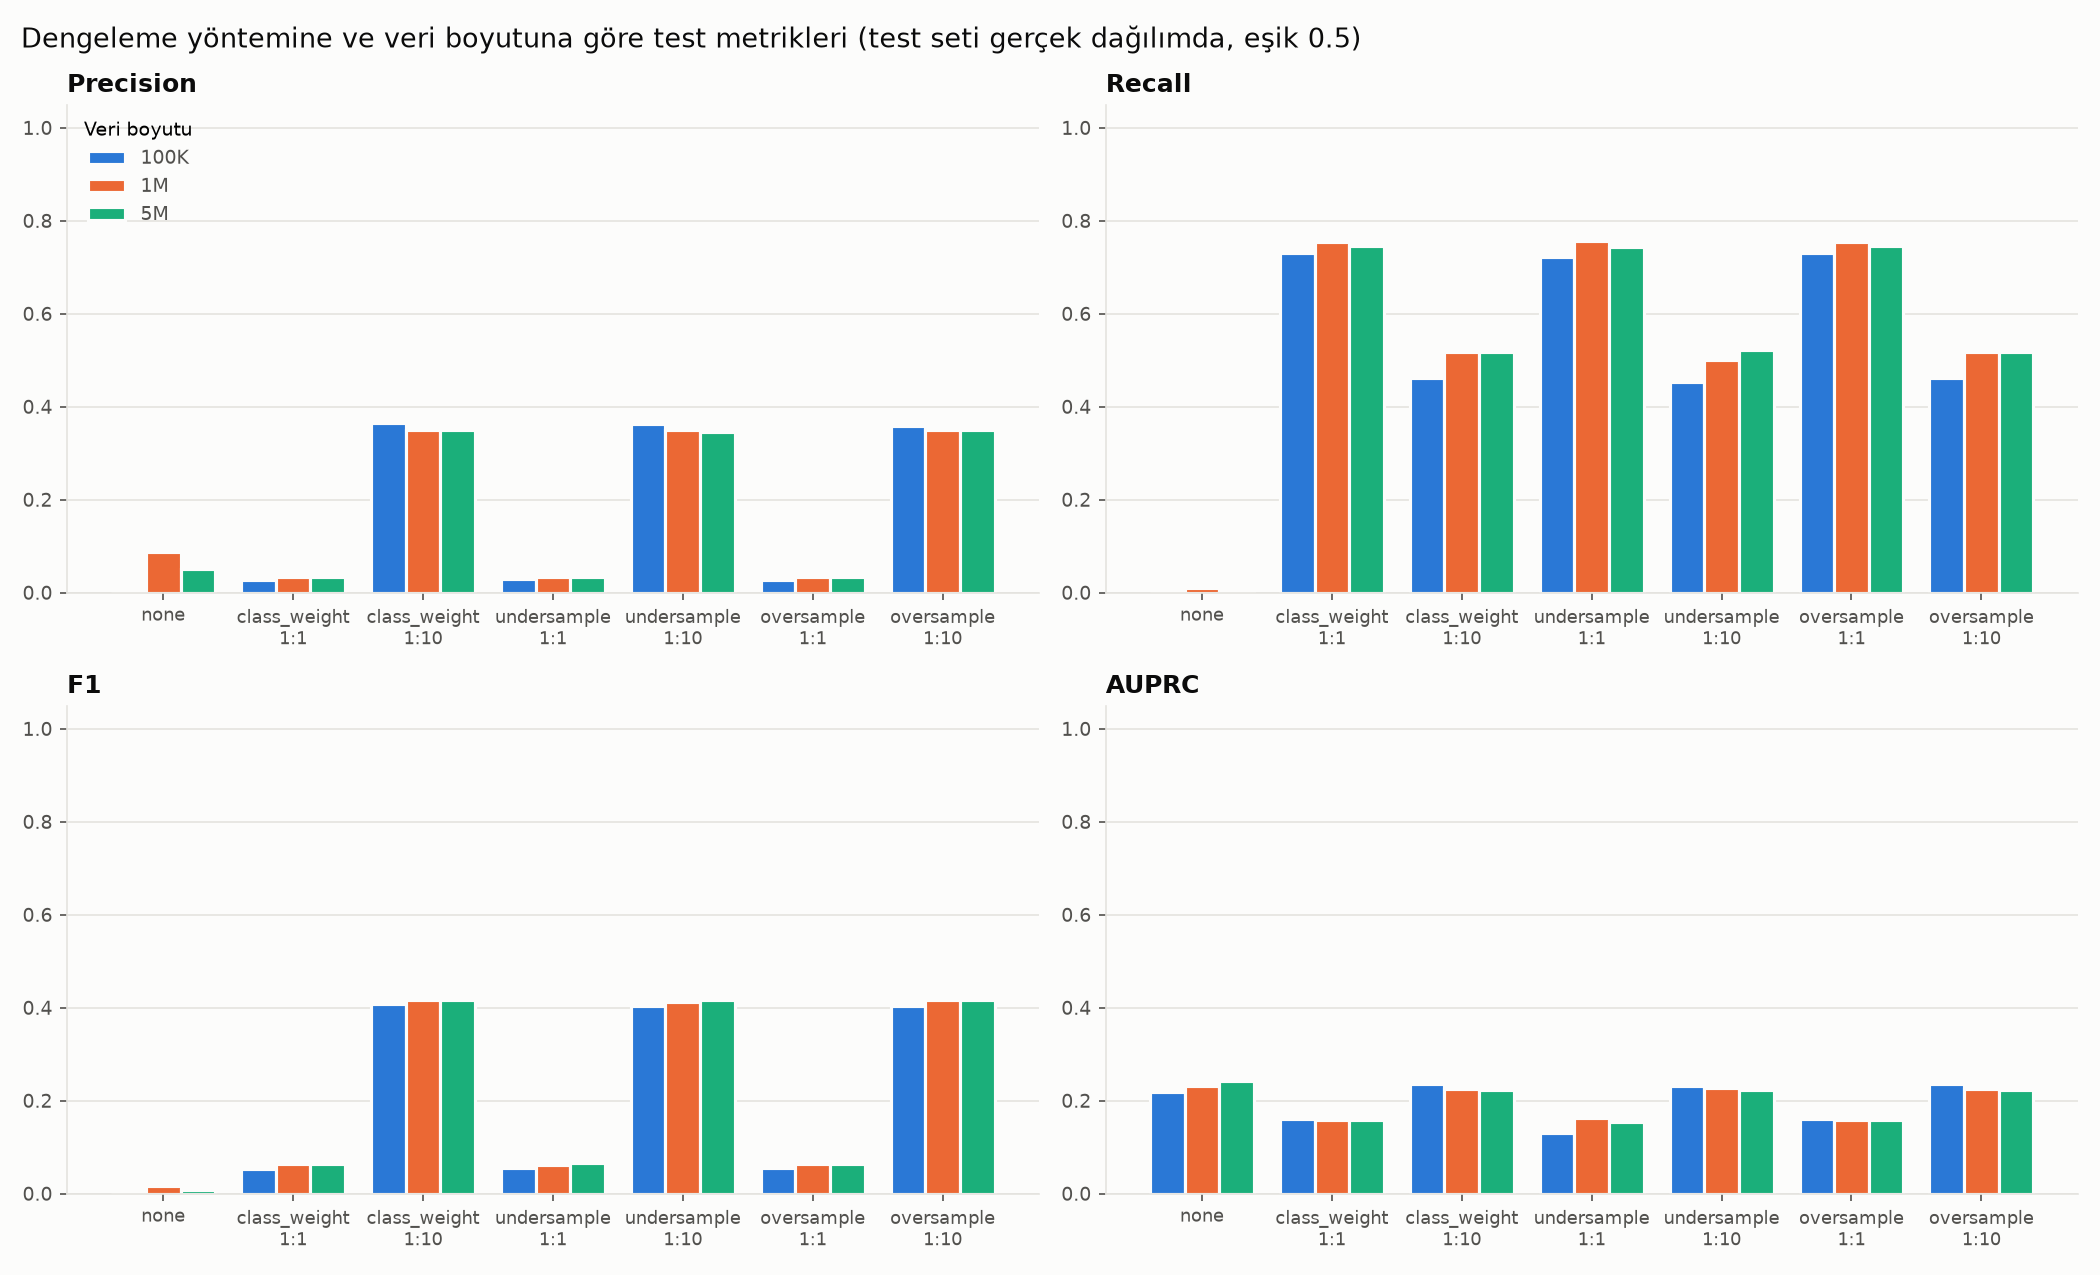
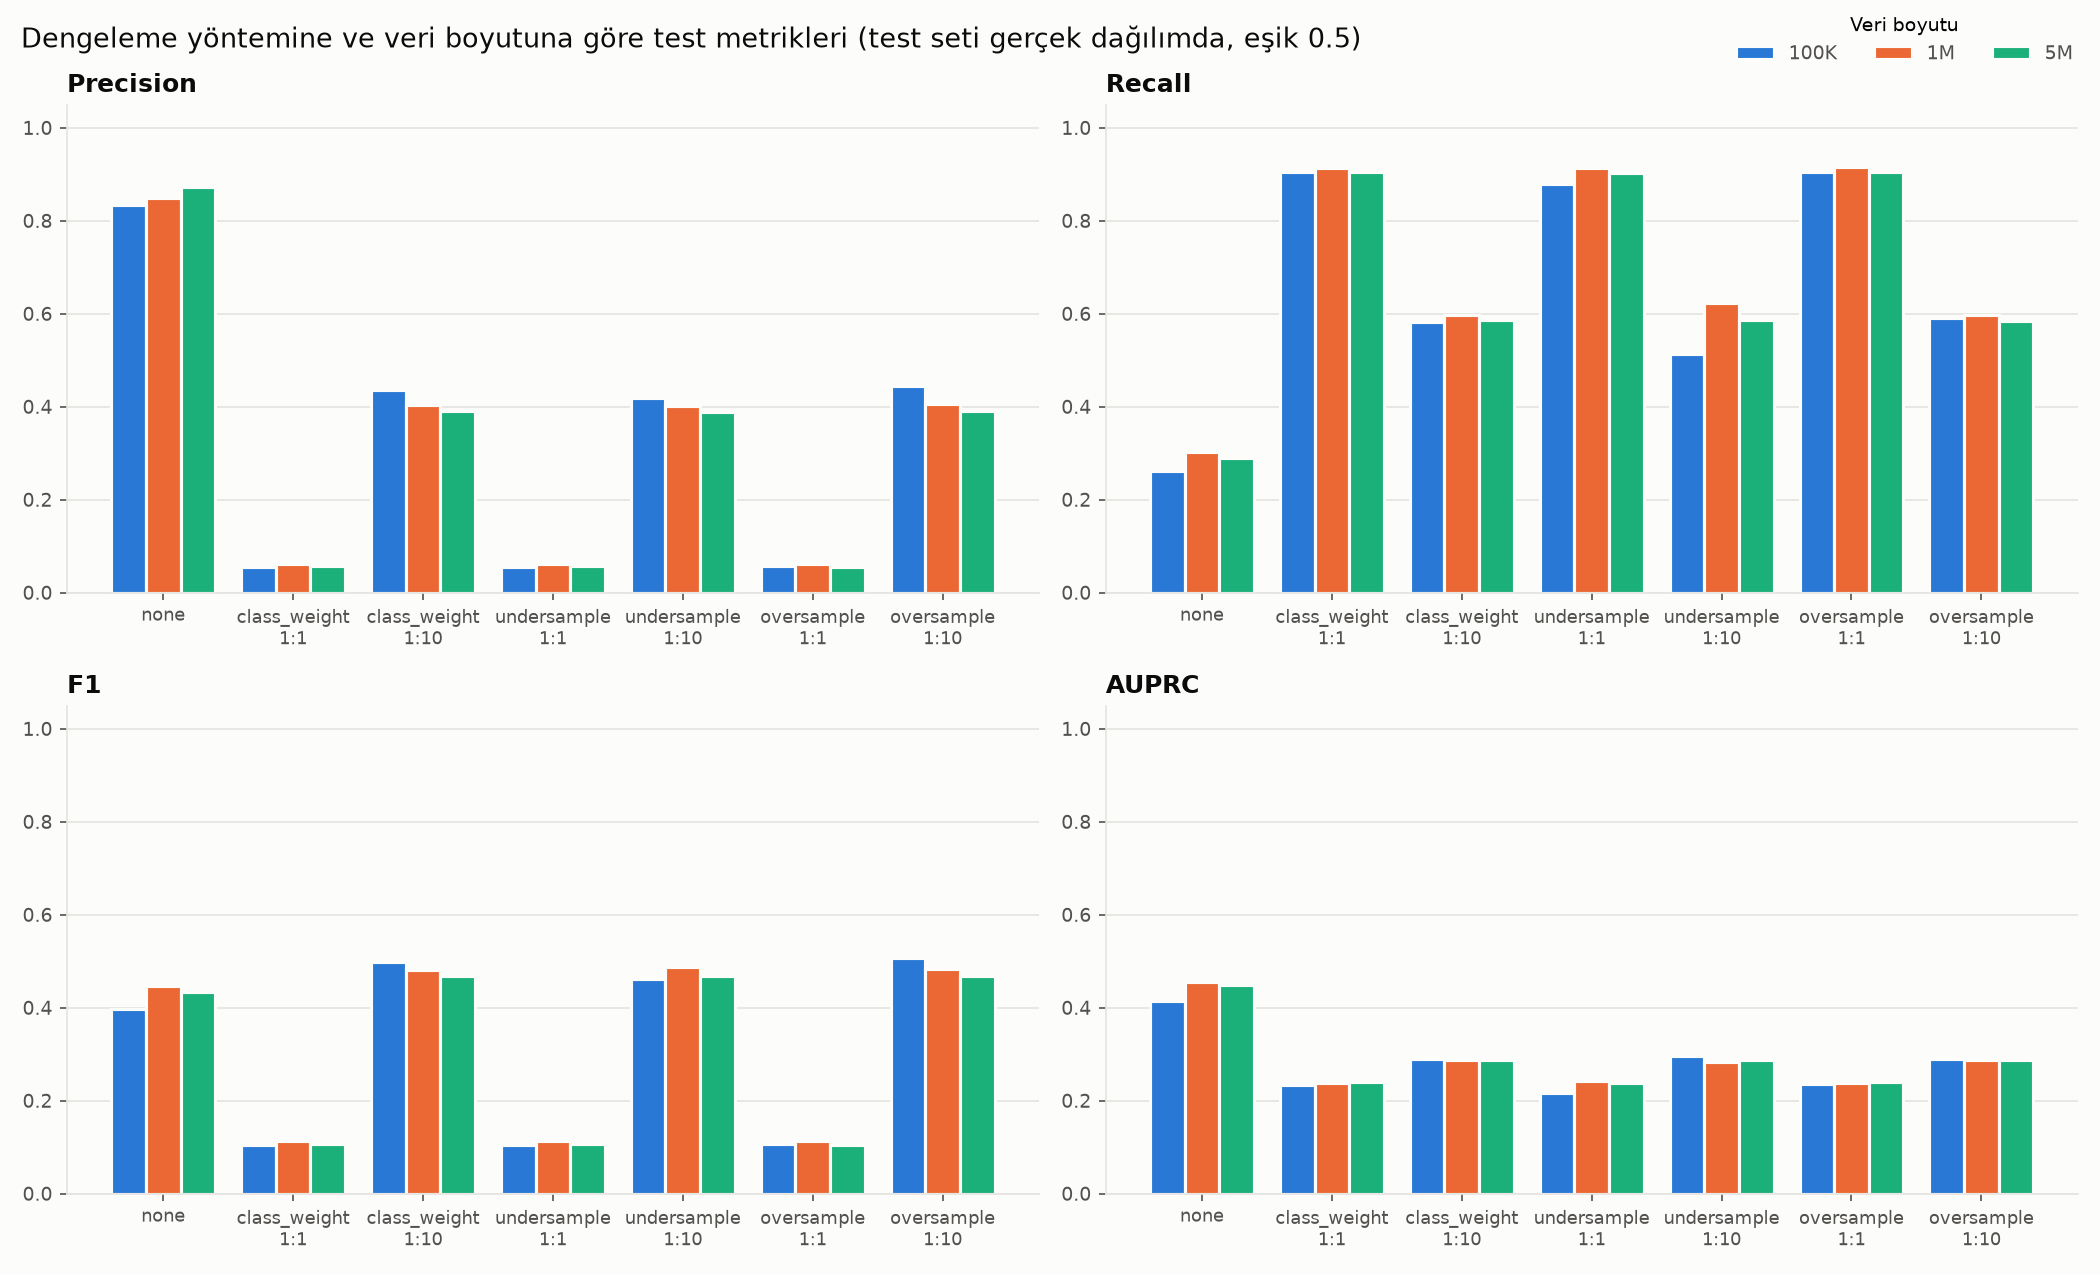
Öğrenci 2: Öğrenci 3'ün özellikleriyle yeniden çalıştırıldı (input=features)
- 21 deney features girdisiyle CSV'ye eklendi, eski scaled sonuçları korundu
- Seçim değişmedi: undersample 1:10 (5M F1 0.415 -> 0.468, üç yöntem eşit)
- Gerekçe metni baseline recall'unu sabit "sıfıra yakın" yerine gerçek değerle yazıyor
- Grafiklerde lejantın çubuk/etiket üstüne binmesi düzeltildi

diff --git a/src/ogrenci2_class_imbalance.py b/src/ogrenci2_class_imbalance.py
@@ -383,9 +383,10 @@ def write_justification(results, metric: str, sel_size: int, method: str, ratio:
     if base is not None and base["auprc"] >= cand["auprc"].max():
         lines.append(f"- **AUPRC en yüksek dengeleme yokken** ({base['auprc']:.3f}). Yani dengeleme modelin "
                      "fraud'ları normallerden ayırma (sıralama) yeteneğini artırmıyor; sadece 0.5 eşiğinin "
-                     "nereye düştüğünü değiştiriyor. Baseline'ın recall'unun sıfıra yakın olması bilgisizlikten "
-                     "değil, eşiğin dengesiz veri için fazla yüksek kalmasından. Dengelemenin pratik faydası, "
-                     "eşik ayarı yapmadan da kullanılabilir bir precision/recall dengesi vermesi.")
+                     "nereye düştüğünü değiştiriyor. Baseline'ın recall'unun düşük (%"
+                     f"{base['recall'] * 100:.1f}) olması bilgisizlikten değil, eşiğin dengesiz veri için fazla "
+                     "yüksek kalmasından. Dengelemenin pratik faydası, eşik ayarı yapmadan da kullanılabilir bir "
+                     "precision/recall dengesi vermesi.")
     if base is not None:
         lines.append(f"- **Maliyet:** seçilen yöntemin train seti baseline'ın {sel['train_rows'] / base['train_rows']:.2f} "
                      f"katı, eğitim süresi {sel['train_sec'] / max(base['train_sec'], 1e-9):.2f} katı.")
@@ -451,8 +452,10 @@ def make_plots(res, out: Path):
                    color=colors[s], edgecolor=C.SURFACE, linewidth=1.5, label=C.size_label(s))
         ax.set_xticks(x, order, fontsize=8.5)
         ax.set_ylim(0, 1.05)
-    axes[0, 0].legend(title="Veri boyutu", frameon=False, fontsize=9, title_fontsize=9,
-                      labelcolor=C.INK2, loc="upper left")
+    # Lejant başlık satırında, sağda: çubukların üstüne binmesin
+    handles, labels = axes[0, 0].get_legend_handles_labels()
+    fig.legend(handles, labels, title="Veri boyutu", frameon=False, fontsize=9, title_fontsize=9,
+               labelcolor=C.INK2, loc="upper right", ncol=len(sizes), bbox_to_anchor=(0.995, 1.0))
     fig.suptitle("Dengeleme yöntemine ve veri boyutuna göre test metrikleri "
                  "(test seti gerçek dağılımda, eşik 0.5)", x=0.01, ha="left", color=C.INK, fontsize=13)
     C.save_fig(fig, out / "metrics_by_method.png")
@@ -487,8 +490,9 @@ def make_plots(res, out: Path):
                 ax.text(b.get_x() + b.get_width() / 2, v + 0.015, f"{v:.3f}", ha="center",
                         va="bottom", fontsize=9, color=C.INK)
         ax.set_xticks(xb, [C.size_label(s) for s in base["size"]])
-        ax.set_ylim(0, 1.12)
-        ax.legend(frameon=False, fontsize=9, labelcolor=C.INK2, loc="upper right")
+        ax.set_ylim(0, 1.3)  # üstte lejant için boşluk: değer etiketleriyle çakışmasın
+        ax.set_yticks(np.arange(0, 1.01, 0.2))
+        ax.legend(frameon=False, fontsize=9, labelcolor=C.INK2, loc="upper center", ncol=2)
         C.save_fig(fig, out / "baseline_accuracy_vs_recall.png")
 
     # 4) Veri büyüse de fraud ORANI değişmiyor, sadece fraud SAYISI artıyor

diff --git a/results/ogrenci2/secim_gerekcesi.md b/results/ogrenci2/secim_gerekcesi.md
@@ -1,26 +1,26 @@
-# Öğrenci 2 - Dengeleme yöntemi seçimi (5M, girdi: scaled)
+# Öğrenci 2 - Dengeleme yöntemi seçimi (5M, girdi: features)
 
 Seçim ölçütü: **F1** (test seti gerçek dağılımda, eşik 0.5). F1, precision ile recall'u birlikte dikkate aldığı için hem kaçırılan fraud'u hem de yanlış alarmı cezalandırır. En iyi değere 0.005 puandan yakın yöntemler eşit sayılır ve aralarından **en kısa sürede eğitilen** seçilir (gürültü düzeyindeki bir fark için daha pahalı yöntemi seçmemek için).
 
 | Yöntem | Train satırı | Precision | Recall | F1 | AUPRC | Eğitim (sn) |
 |---|---:|---:|---:|---:|---:|---:|
-| oversample 1:10 | 4,375,493 | 0.349 | 0.517 | 0.417 | 0.223 | 5.2 |
-| class_weight 1:10 | 3,999,034 | 0.349 | 0.517 | 0.417 | 0.223 | 3.5 |
-| undersample 1:10 **(seçilen)** | 227,491 | 0.345 | 0.522 | 0.415 | 0.222 | 1.9 |
-| undersample 1:1 | 41,608 | 0.034 | 0.744 | 0.065 | 0.154 | 3.1 |
-| oversample 1:1 | 7,955,514 | 0.033 | 0.746 | 0.064 | 0.157 | 10.1 |
-| class_weight 1:1 | 3,999,034 | 0.033 | 0.746 | 0.064 | 0.157 | 5.1 |
-| none - | 3,999,034 | 0.051 | 0.004 | 0.007 | 0.243 | 4.3 |
+| oversample 1:10 | 4,374,097 | 0.391 | 0.585 | 0.468 | 0.287 | 69.5 |
+| class_weight 1:10 | 3,999,034 | 0.390 | 0.586 | 0.468 | 0.287 | 37.3 |
+| undersample 1:10 **(seçilen)** | 227,437 | 0.389 | 0.585 | 0.468 | 0.288 | 24.1 |
+| none - | 3,999,034 | 0.873 | 0.289 | 0.435 | 0.448 | 47.0 |
+| undersample 1:1 | 41,794 | 0.056 | 0.902 | 0.106 | 0.239 | 40.6 |
+| class_weight 1:1 | 3,999,034 | 0.056 | 0.904 | 0.106 | 0.240 | 45.2 |
+| oversample 1:1 | 7,958,070 | 0.056 | 0.904 | 0.106 | 0.239 | 204.8 |
 
 ## Gerekçe
 
-- **Dengeleme yokken** accuracy %99.4 ama recall yalnızca %0.4: test setindeki fraud'ların kaçırılan payı %99.6. Yüksek accuracy, modelin neredeyse her şeye 'normal' demesinden geliyor.
-- **Seçilen yöntem (undersample 1:10)** ile recall %0.4 → %52.2, precision %5.1 → %34.5, F1 0.007 → 0.415.
-- **Eşitlik:** F1 açısından 3 yöntem birbirine 0.005 puandan yakın. Seçilen undersample 1:10 (0.415, 1.9 sn, 227,491 satır) bunların en hızlı eğitileni. Diğerleri: class_weight 1:10 (0.417, 3.5 sn, 3,999,034 satır), oversample 1:10 (0.417, 5.2 sn, 4,375,493 satır).
-- En yüksek recall **class_weight 1:1** ile (%74.6), ama precision %3.3: fraud alarmlarında yanlış alarm payı %96.7. Bu yüzden tek başına recall'a göre seçilmedi.
-- AUPRC yöntemler arasında 0.154–0.243 aralığında değişiyor; seçilen yöntemde 0.222.
-- **AUPRC en yüksek dengeleme yokken** (0.243). Yani dengeleme modelin fraud'ları normallerden ayırma (sıralama) yeteneğini artırmıyor; sadece 0.5 eşiğinin nereye düştüğünü değiştiriyor. Baseline'ın recall'unun sıfıra yakın olması bilgisizlikten değil, eşiğin dengesiz veri için fazla yüksek kalmasından. Dengelemenin pratik faydası, eşik ayarı yapmadan da kullanılabilir bir precision/recall dengesi vermesi.
-- **Maliyet:** seçilen yöntemin train seti baseline'ın 0.06 katı, eğitim süresi 0.45 katı.
-- Diğer boyutlarda seçilen yöntemin F1 sırası: 100K: 2/6, 1M: 3/6, 5M: 3/6.
+- **Dengeleme yokken** accuracy %99.6 ama recall yalnızca %28.9: test setindeki fraud'ların kaçırılan payı %71.1. Yüksek accuracy, modelin neredeyse her şeye 'normal' demesinden geliyor.
+- **Seçilen yöntem (undersample 1:10)** ile recall %28.9 → %58.5, precision %87.3 → %38.9, F1 0.435 → 0.468.
+- **Eşitlik:** F1 açısından 3 yöntem birbirine 0.005 puandan yakın. Seçilen undersample 1:10 (0.468, 24.1 sn, 227,437 satır) bunların en hızlı eğitileni. Diğerleri: class_weight 1:10 (0.468, 37.3 sn, 3,999,034 satır), oversample 1:10 (0.468, 69.5 sn, 4,374,097 satır).
+- En yüksek recall **class_weight 1:1** ile (%90.4), ama precision %5.6: fraud alarmlarında yanlış alarm payı %94.4. Bu yüzden tek başına recall'a göre seçilmedi.
+- AUPRC yöntemler arasında 0.239–0.448 aralığında değişiyor; seçilen yöntemde 0.288.
+- **AUPRC en yüksek dengeleme yokken** (0.448). Yani dengeleme modelin fraud'ları normallerden ayırma (sıralama) yeteneğini artırmıyor; sadece 0.5 eşiğinin nereye düştüğünü değiştiriyor. Baseline'ın recall'unun düşük (%28.9) olması bilgisizlikten değil, eşiğin dengesiz veri için fazla yüksek kalmasından. Dengelemenin pratik faydası, eşik ayarı yapmadan da kullanılabilir bir precision/recall dengesi vermesi.
+- **Maliyet:** seçilen yöntemin train seti baseline'ın 0.06 katı, eğitim süresi 0.51 katı.
+- Diğer boyutlarda seçilen yöntemin F1 sırası: 100K: 3/6, 1M: 1/6, 5M: 3/6.
 
 Dengeleme sadece train setine uygulandı; test seti gerçek dağılımda bırakıldı. Dengelenmiş veri: `data/balanced/` (bkz. SECILEN_YONTEM.json).
